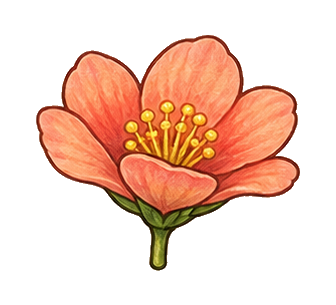
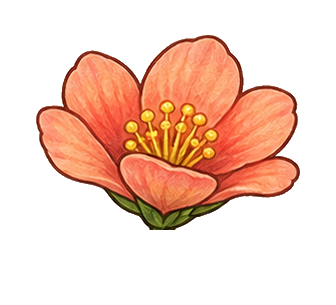
Plant: one continuous stem into the flower
The flower art carried its own short stem, and the base's closed top
bud still showed behind it, so two stems were visible. Now:
- The top bud is cut out of base.png into top-bud.png; it shrinks away
  when the bloom starts.
- Each flower stage is trimmed just under its sepals and seated on the
  top of the stem (centered on stemX), so the plant's single stem runs
  straight up into the flower.

Changed region(s): [[0.4464, 0.7377, 0.5357, 0.8852]]

diff --git a/src/components/PlantSticker/PlantSticker.jsx b/src/components/PlantSticker/PlantSticker.jsx
@@ -82,13 +82,21 @@ const sideOfStem = (side) => {
   return `polygon(${edge(yTop)}px -60px, ${edge(yBot)}px ${H + 60}px, ${far}px ${H + 60}px, ${far}px -60px)`;
 };
 
-// Flower stages, anchored at the bottom of their stem, which sits on the
-// stem just under the top bud of base.png.
-const FLOWER_AT = { x: 124, y: 64 };
+// The closed bud that tops the stem was cut out of base.png into
+// top-bud.png (box = where it sat on base.png, padding included), so the
+// stem ends at y = 51. On bloom it shrinks away and the flower head takes
+// its place.
+const STEM_TOP = 51;
+const TOP_BUD = { x: 95, y: -2, w: 60, h: 60 };
+
+// Flower stages with their own stems trimmed off just under the sepals, so
+// the plant's one stem runs straight up into the flower. (ax, ay) = the
+// center of the sepals' base, seated on the top of the stem.
+const FLOWER_AT = { x: stemX(STEM_TOP), y: STEM_TOP + 2 };
 const FLOWER = [
-  { name: 'flower-bud', w: 124, h: 208, ax: 62, ay: 194, scale: 0.42 },
-  { name: 'flower-half', w: 186, h: 231, ax: 81, ay: 217, scale: 0.5 },
-  { name: 'flower-full', w: 292, h: 261, ax: 135, ay: 248, scale: 0.6 },
+  { name: 'flower-bud', w: 124, h: 208, ax: 62, ay: 142, scale: 0.42 },
+  { name: 'flower-half', w: 186, h: 231, ax: 83, ay: 170, scale: 0.5 },
+  { name: 'flower-full', w: 292, h: 261, ax: 140, ay: 207, scale: 0.6 },
 ];
 const BLOOM_STEP_MS = 420;
 
@@ -180,6 +188,18 @@ export default function PlantSticker({ x, y, rotate, z, enterDelay, bringToFront
         style={placeBox(0, 0, BASE.w, BASE.h, PADS.base)}
       />
 
+      {/* The closed bud on top — gives way to the flower on bloom */}
+      <motion.img
+        className="plant-piece"
+        src={src('top-bud', layer)}
+        alt=""
+        draggable="false"
+        style={{ ...placeBox(TOP_BUD.x, TOP_BUD.y, TOP_BUD.w, TOP_BUD.h, 0), transformOrigin: '50% 90%' }}
+        initial={false}
+        animate={{ scale: stage >= 0 ? 0 : 1, opacity: stage >= 0 ? 0 : 1 }}
+        transition={t({ duration: 0.2 })}
+      />
+
       {/* Buds — shrink back into the stem as their leaf grows */}
       {NODES.map((n, i) => {
         const isFound = found.includes(discoveries[i].id);
@@ -231,7 +251,7 @@ export default function PlantSticker({ x, y, rotate, z, enterDelay, bringToFront
         </div>
       ))}
 
-      {/* Flower opens over the top bud of base.png, covering it. */}
+      {/* Flower head opens on the top of the stem, in the top bud's place. */}
       <AnimatePresence>
         {stage >= 0 && (
           <motion.img
